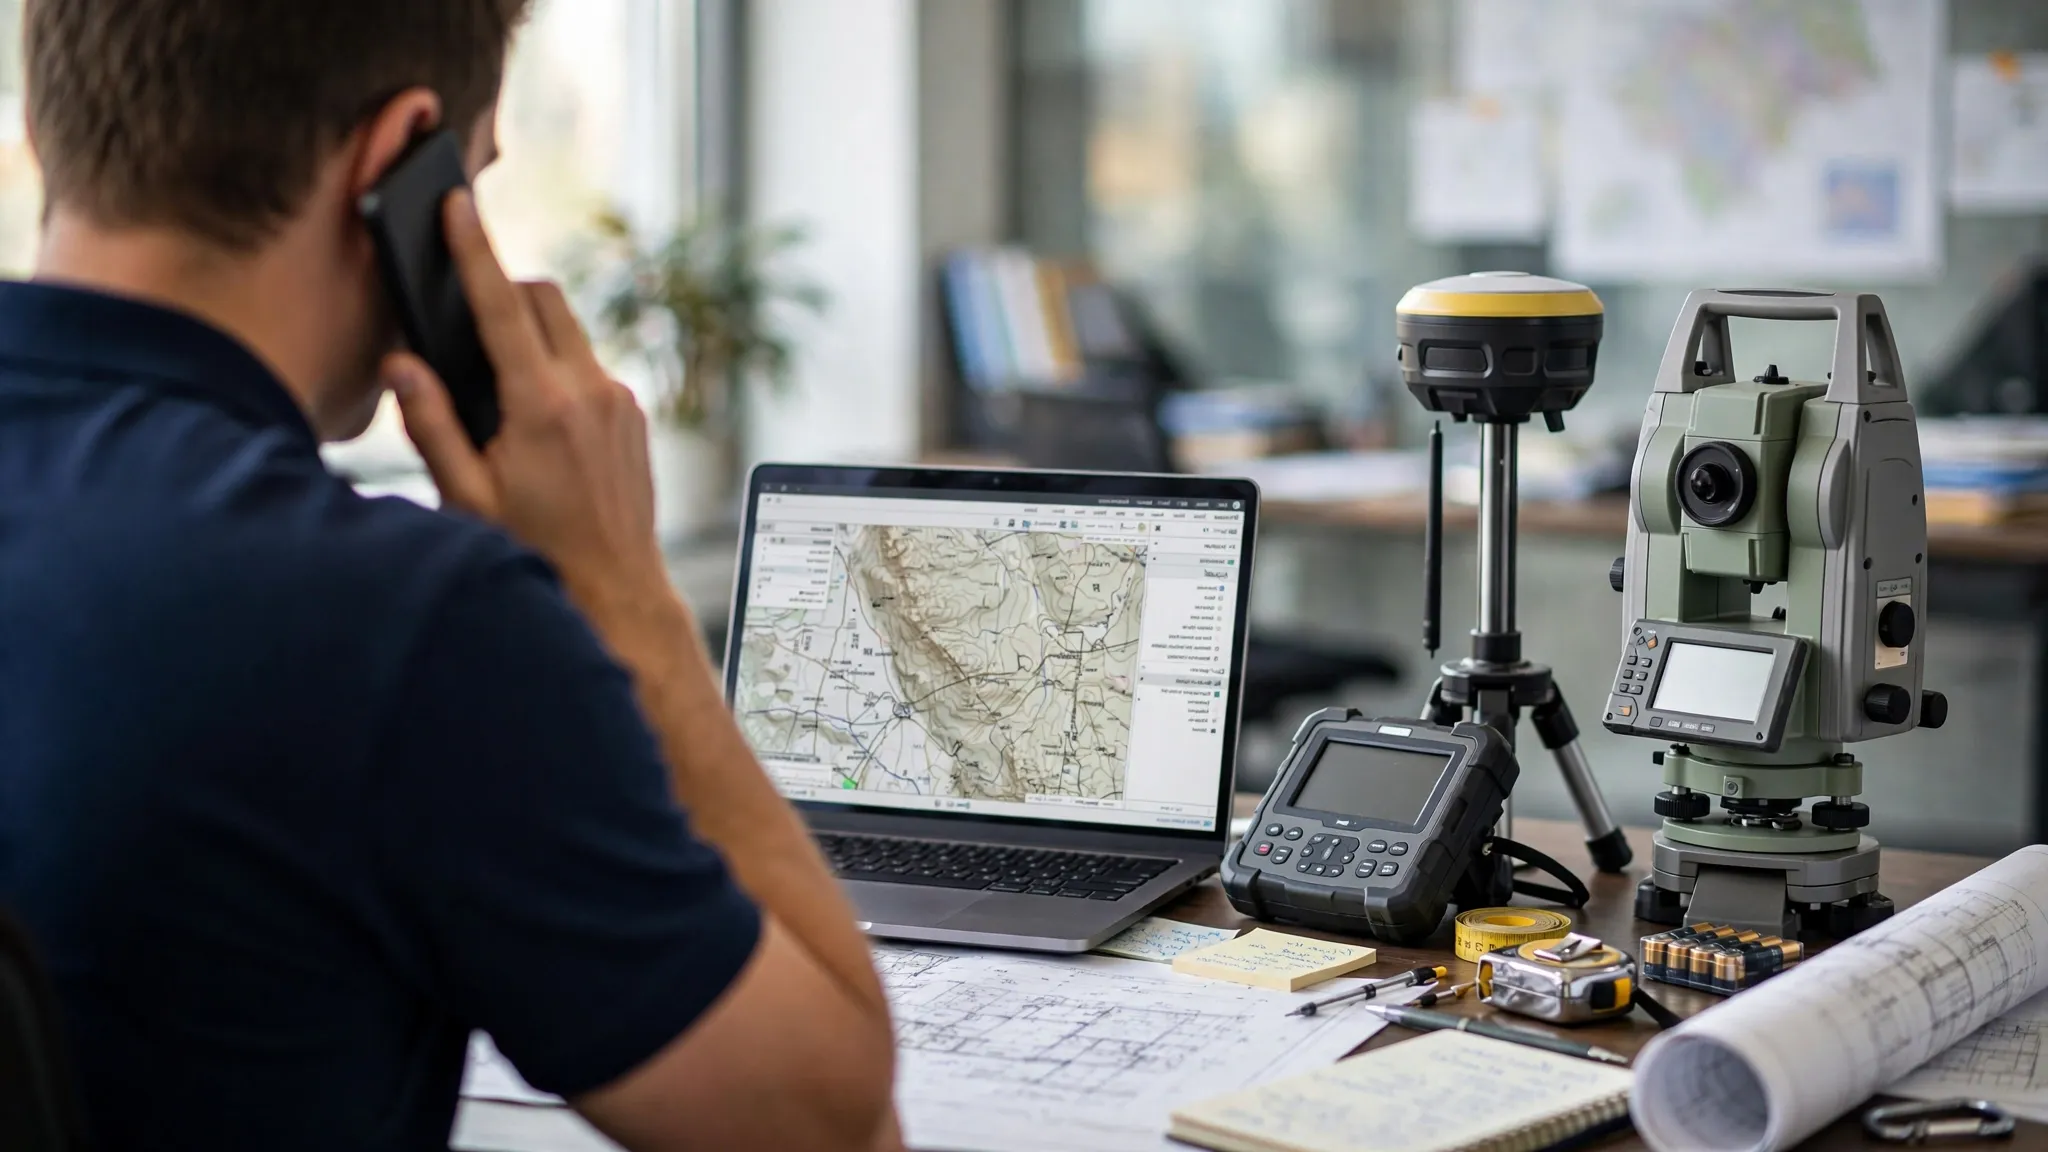
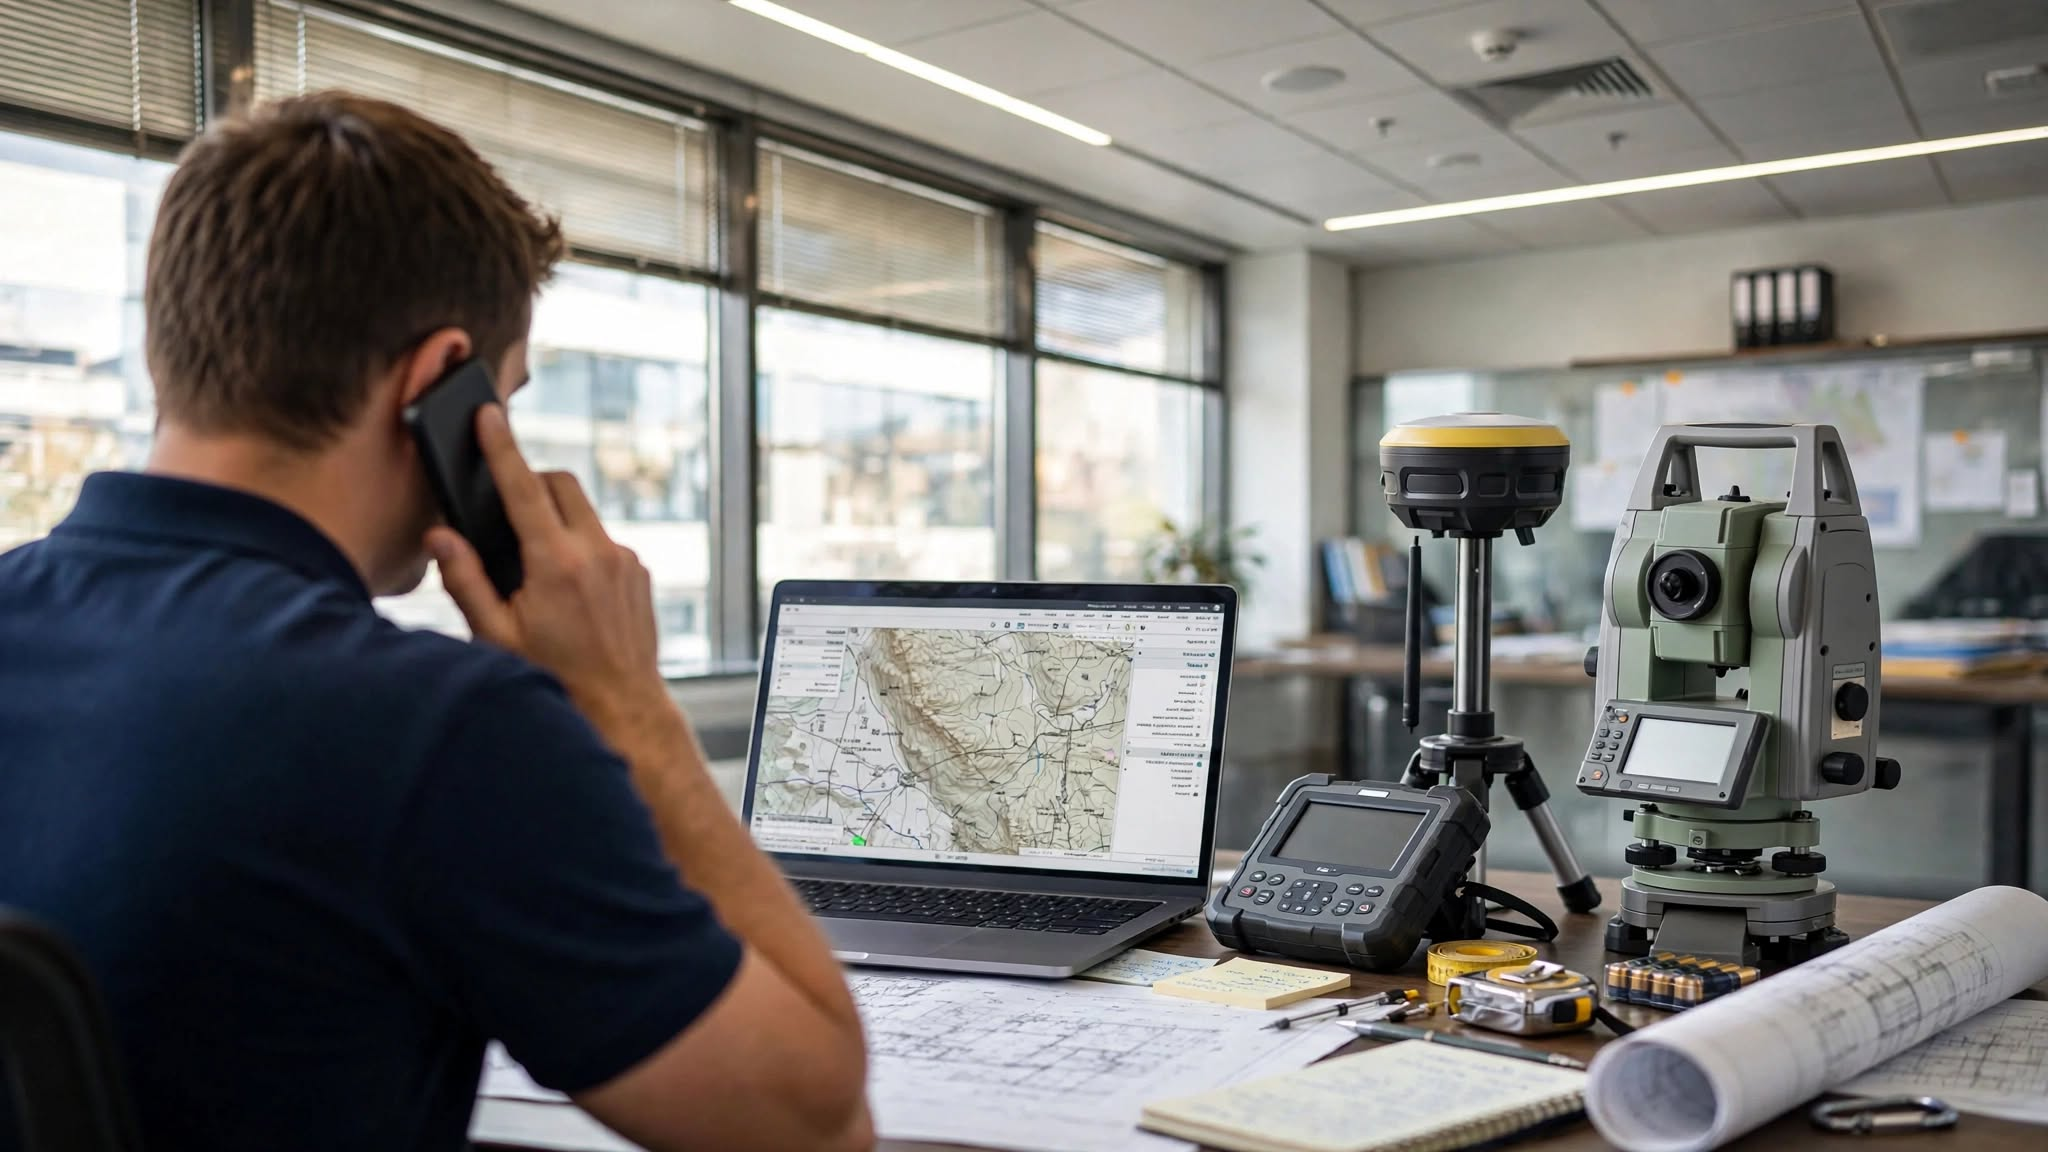
Изменение страницы контактов

diff --git a/contacts.html b/contacts.html
@@ -108,83 +108,78 @@
     </div>
   </section>
 
-  <!-- ================= КОНТАКТЫ + КАРТА ================= -->
-  <main class="page-body page-body--soft">
-    <div class="container">
-      <div class="section-head">
-        <h2 class="section-head__title">Как нас найти</h2>
-      </div>
+  <!-- ============ КОНТАКТЫ (полукруг с фото справа, как на главной) ============ -->
+  <main class="page-body page-body--soft page-body--arc">
+    <div class="arcsec arcsec--right contacts-arc">
 
-      <div class="contacts-layout">
+      <figure class="arc">
+        <img src="assets/images/Contacts.png" alt="Специалист технической поддержки TopNET GSI на связи" class="arc__img" loading="lazy" />
+      </figure>
 
-        <!-- ---------- карточки контактов ---------- -->
-        <div class="contacts-stack">
-
-          <div class="info-card">
-            <span class="info-card__icon" aria-hidden="true">
-              <svg viewBox="0 0 24 24" fill="none">
-                <path d="M12 21s7-6.1 7-11a7 7 0 1 0-14 0c0 4.9 7 11 7 11Z" stroke="currentColor" stroke-width="1.8" stroke-linejoin="round"/>
-                <circle cx="12" cy="10" r="2.4" stroke="currentColor" stroke-width="1.8"/>
-              </svg>
-            </span>
-            <div class="info-card__body">
-              <span class="info-card__label">Адрес</span>
-              <span class="info-card__value">г. Москва, ул. Малая Семеновская, д. 9, стр. 6</span>
-              <span class="info-card__note">Главный офис</span>
-            </div>
+      <div class="container">
+        <div class="arcsec__text contacts-side">
+          <div class="section-head">
+            <h2 class="section-head__title">Техподдержка</h2>
           </div>
 
-          <div class="info-card">
-            <span class="info-card__icon" aria-hidden="true">
-              <svg viewBox="0 0 24 24" fill="none">
-                <path d="M6.5 3.5h3l1.5 4-2 1.5a11 11 0 0 0 6 6l1.5-2 4 1.5v3a2 2 0 0 1-2.2 2A16.5 16.5 0 0 1 4.5 5.7 2 2 0 0 1 6.5 3.5Z" stroke="currentColor" stroke-width="1.8" stroke-linejoin="round"/>
-              </svg>
-            </span>
-            <div class="info-card__body">
-              <span class="info-card__label">Телефон</span>
-              <a class="info-card__value" href="tel:+74991165624">+7 (499) 116-56-24</a>
-            </div>
-          </div>
+          <!-- ---------- карточки контактов ---------- -->
+          <div class="contacts-stack">
 
-          <div class="info-card">
-            <span class="info-card__icon" aria-hidden="true">
-              <svg viewBox="0 0 24 24" fill="none">
-                <rect x="3" y="5" width="18" height="14" rx="2.5" stroke="currentColor" stroke-width="1.8"/>
-                <path d="m4 7.5 8 5.5 8-5.5" stroke="currentColor" stroke-width="1.8" stroke-linecap="round" stroke-linejoin="round"/>
-              </svg>
-            </span>
-            <div class="info-card__body">
-              <span class="info-card__label">Почта</span>
-              <a class="info-card__value" href="mailto:topnet@gsi.ru">topnet@gsi.ru</a>
+            <div class="info-card">
+              <span class="info-card__icon" aria-hidden="true">
+                <svg viewBox="0 0 24 24" fill="none">
+                  <path d="M12 21s7-6.1 7-11a7 7 0 1 0-14 0c0 4.9 7 11 7 11Z" stroke="currentColor" stroke-width="1.8" stroke-linejoin="round"/>
+                  <circle cx="12" cy="10" r="2.4" stroke="currentColor" stroke-width="1.8"/>
+                </svg>
+              </span>
+              <div class="info-card__body">
+                <span class="info-card__label">Адрес</span>
+                <span class="info-card__value">г. Москва, ул. Малая Семеновская, д. 9, стр. 6</span>
+                <span class="info-card__note">Главный офис</span>
+              </div>
             </div>
-          </div>
 
-          <div class="info-card">
-            <span class="info-card__icon" aria-hidden="true">
-              <svg viewBox="0 0 24 24" fill="none">
-                <circle cx="12" cy="12" r="8.5" stroke="currentColor" stroke-width="1.8"/>
-                <path d="M12 7.5V12l3.2 2" stroke="currentColor" stroke-width="1.8" stroke-linecap="round" stroke-linejoin="round"/>
-              </svg>
-            </span>
-            <div class="info-card__body">
-              <span class="info-card__label">Режим работы</span>
-              <span class="info-card__value">Пн–Вс: 09:00 — 21:00</span>
+            <div class="info-card">
+              <span class="info-card__icon" aria-hidden="true">
+                <svg viewBox="0 0 24 24" fill="none">
+                  <path d="M6.5 3.5h3l1.5 4-2 1.5a11 11 0 0 0 6 6l1.5-2 4 1.5v3a2 2 0 0 1-2.2 2A16.5 16.5 0 0 1 4.5 5.7 2 2 0 0 1 6.5 3.5Z" stroke="currentColor" stroke-width="1.8" stroke-linejoin="round"/>
+                </svg>
+              </span>
+              <div class="info-card__body">
+                <span class="info-card__label">Телефон</span>
+                <a class="info-card__value" href="tel:+74991165624">+7 (499) 116-56-24</a>
+              </div>
             </div>
+
+            <div class="info-card">
+              <span class="info-card__icon" aria-hidden="true">
+                <svg viewBox="0 0 24 24" fill="none">
+                  <rect x="3" y="5" width="18" height="14" rx="2.5" stroke="currentColor" stroke-width="1.8"/>
+                  <path d="m4 7.5 8 5.5 8-5.5" stroke="currentColor" stroke-width="1.8" stroke-linecap="round" stroke-linejoin="round"/>
+                </svg>
+              </span>
+              <div class="info-card__body">
+                <span class="info-card__label">Почта</span>
+                <a class="info-card__value" href="mailto:topnet@gsi.ru">topnet@gsi.ru</a>
+              </div>
+            </div>
+
+            <div class="info-card">
+              <span class="info-card__icon" aria-hidden="true">
+                <svg viewBox="0 0 24 24" fill="none">
+                  <circle cx="12" cy="12" r="8.5" stroke="currentColor" stroke-width="1.8"/>
+                  <path d="M12 7.5V12l3.2 2" stroke="currentColor" stroke-width="1.8" stroke-linecap="round" stroke-linejoin="round"/>
+                </svg>
+              </span>
+              <div class="info-card__body">
+                <span class="info-card__label">Режим работы</span>
+                <span class="info-card__value">Пн–Вс: 09:00 — 21:00</span>
+              </div>
+            </div>
+
           </div>
 
         </div>
-
-        <!-- ---------- карта ---------- -->
-        <div class="map-card">
-          <iframe
-            title="Карта филиалов"
-            src="https://yandex.ru/map-widget/v1/?um=constructor%3A83c7553878eeecd3cc812e6cc62157b9de612009a204140b6bd220bf5f4b015c&amp;source=constructor"
-            width="100%"
-            height="357"
-            frameborder="0"
-            style="display: block"></iframe>
-        </div>
-
       </div>
     </div>
   </main>

diff --git a/css/style.css b/css/style.css
@@ -1446,12 +1446,21 @@ label:has(> input[type="radio"]), label:has(> input[type="radio"]) * {
 /* =============================================================
    CONTACTS PAGE — карточки контактов слева + карта справа
    ============================================================= */
-.contacts-layout {
-  display: grid;
-  grid-template-columns: minmax(300px, 400px) 1fr;
-  gap: clamp(24px, 3vw, 40px);
-  align-items: start;
+/* Контакты: карточки слева, полукруг с фото уходит за правый край экрана —
+   тот же компонент .arcsec / .arc, что и на главной. */
+.page-body--arc {
+  overflow: hidden;      /* круг обрезается по краю секции и её скруглению */
+  padding-bottom: 0;
 }
+.contacts-arc {
+  --arc: clamp(440px, 50vw, 760px);
+  min-height: calc(var(--arc) + clamp(24px, 3vh, 48px));
+  padding: 0 0 clamp(24px, 4vh, 56px);
+}
+/* в видимую (левую) половину круга выводим специалиста с телефоном */
+.contacts-arc .arc__img { object-position: 40% 50%; }
+.contacts-side { max-width: 460px; }
+.contacts-side .section-head { margin-bottom: clamp(20px, 3vh, 28px); }
 
 /* ---------- стопка карточек ---------- */
 .contacts-stack {
@@ -1524,22 +1533,6 @@ a.info-card__value:hover { color: var(--accent); }
 }
 
 /* ---------- карта ---------- */
-.map-card {
-  border-radius: 24px;
-  overflow: hidden;
-  background: var(--bg-alt);
-  border: 1px solid var(--line);
-  box-shadow: 0 30px 60px -34px rgba(26, 39, 51, 0.45);
-  height: 66vh;
-  min-height: 420px;
-}
-.map-card iframe {
-  display: block;
-  width: 100%;
-  height: 100%;
-  border: 0;
-}
-
 /* ---------- тёмная CTA-плашка ---------- */
 .cta-band {
   background: var(--dark);
@@ -1569,15 +1562,16 @@ a.info-card__value:hover { color: var(--accent); }
 }
 
 @media (max-width: 960px) {
-  .contacts-layout { grid-template-columns: 1fr; }
-  .map-card {
-    height: auto;
+  /* узкий экран: круг разворачивается в арку сверху (правила .arc выше),
+     карточки контактов идут под ней */
+  .contacts-arc {
     min-height: 0;
-    aspect-ratio: 4 / 3;
+    padding-bottom: clamp(40px, 6vh, 64px);
   }
+  .contacts-arc .arc__img { object-position: 42% 46%; }
+  .contacts-side { max-width: none; }
 }
 @media (max-width: 560px) {
-  .map-card { aspect-ratio: 1 / 1; }
   .cta-band__inner { flex-direction: column; align-items: flex-start; }
 }
 
